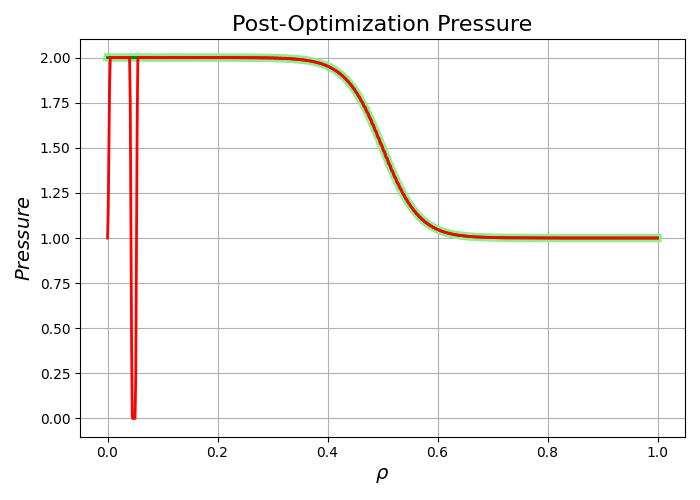
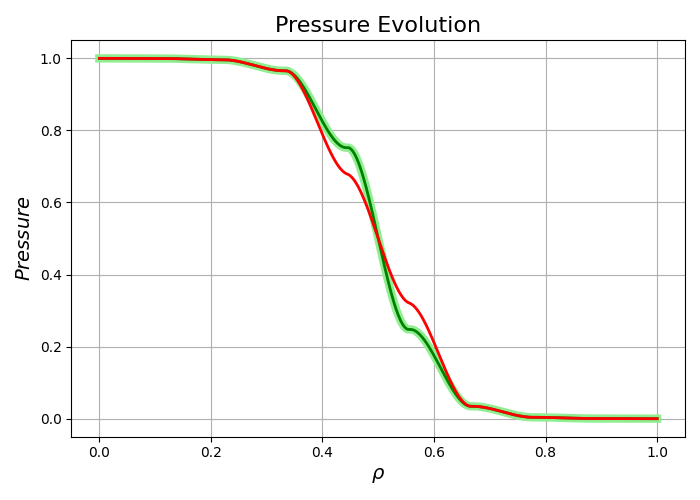
fixed spikes on hermite pressure

diff --git a/Scratch/Runs/hermite/opt.py b/Scratch/Runs/hermite/opt.py
@@ -48,25 +48,25 @@ pressure_axis_normalized = LinearObjectiveFromUser(
     fun=pressure_axis, 
     thing=eq_init,
     target=1.0, # pressure = 1 on axis
-    weight=1.0,
+    weight=1.0e1,
 )
 pressure_edge_zero = LinearObjectiveFromUser(
     fun=pressure_edge,
     thing=eq_init,
     target=0.0, # pressure = 0 on edge
-    weight=1.0,
+    weight=1.0e1,
 )
 grad_pressure_axis_zero = LinearObjectiveFromUser(
     fun=grad_pressure_axis, # Grad(P) = 0 on axis
     thing=eq_init,
     target=0.0,
-    weight=1.0,
+    weight=1.0e1,
 )
 grad_pressure_edge_zero = LinearObjectiveFromUser(
     fun=grad_pressure_edge, # Grad(P) = 0 on edge
     thing=eq_init,
     target=0.0,
-    weight=1.0,
+    weight=1.0e1,
 )
 
 
@@ -88,24 +88,24 @@ constraints = (
 #Custom objective wrapper for monotonicity func:
 monotonic_pressure = ObjectiveFromUser(
     fun=hermite_monotonicity_pressure,
-    grid=LinearGrid(rho=200,M=0,N=0), # optional, defaults to Quadrature
+    grid=LinearGrid(rho=100,M=0,N=0), # optional, defaults to Quadrature
     thing=eq_init,
     target=0.0,
     weight=1e4,
 )
 monotonic_slope = ObjectiveFromUser( 
     fun=hermite_monotonicity_slope,
-    grid=LinearGrid(rho=8,M=0,N=0), # optional, defaults to Quadrature
+    grid=LinearGrid(rho=100,M=0,N=0), # optional, defaults to Quadrature
     thing=eq_init,
     target=0.0,
-    weight=1e2, # weight > other objective weights
+    weight=1e4, # weight > other objective weights
 )
 
 
 
 # Creating objective:
 objective= ObjectiveFunction([
-    ForceBalance(eq=eq_init, target=0, weight=1e1), # J x B - Grad(P) = 0
+    ForceBalance(eq=eq_init, target=0, weight=1e-1), # J x B - Grad(P) = 0
     AspectRatio(eq=eq_init, target=6, weight=1e-1), # acceptable range: 
     QuasisymmetryBoozer(eq=eq_init, helicity=(2, eq_init.NFP), weight=1e-1), #TARGET??? acceptable range: 
     monotonic_pressure,
@@ -116,7 +116,7 @@ objective= ObjectiveFunction([
 
 
 #------------------ Optimizer of Choice -----------------------#
-optimizer = Optimizer("proximal-lsq-exact") #choice of optimizer
+optimizer = Optimizer("proximal-fmintr-bfgs") #choice of optimizer
 
 
 
@@ -126,7 +126,7 @@ eq_opt, result = eq_init.optimize(
     objective=objective,
     constraints=constraints,
     optimizer=optimizer,
-    ftol=5e-2,  # stopping tolerance on the function value
+    ftol=5e-4,  # stopping tolerance on the function value
     xtol=1e-6,  # stopping tolerance on the step size
     gtol=1e-6,  # stopping tolerance on the gradient
     maxiter=50,  # maximum number of iterations
@@ -164,13 +164,14 @@ plt.plot(rho, pressure_init, linewidth=2, color='g',
         pe.Stroke(linewidth=6, foreground='lightgreen'),
         pe.Normal()
     ],
-    label='init'
+    label='initial equilibrium'
 )
-plt.plot(rho, pressure_opt, linewidth=2, color='r', label='opt')
+plt.plot(rho, pressure_opt, linewidth=2, color='r', label='optimized')
 
 plt.xlabel(r"$\rho$", fontsize=14)
 plt.ylabel(r"$Pressure$", fontsize=14)
-plt.title("Post-Optimization Pressure", fontsize=16)
+plt.title("Pressure Evolution", fontsize=16)
 plt.grid(True)
+plt.legend
 plt.tight_layout()
 plt.savefig('/Users/macdaddi/DESC/scratch/runs/hermite/pressure.png')

diff --git a/Scratch/objectives/hermite_constraints.py b/Scratch/objectives/hermite_constraints.py
@@ -60,7 +60,7 @@ def hermite_monotonicity_pressure(grid, data):
     p = data['p'] # gradient of pressure at grid points
     rho = grid.nodes[:, 0] # rho gridpoints
     abs_dp = jnp.abs(p[1:] - p[0:-1]) # upper limit on change between two points
-    violation = jnp.maximum(2, abs_dp) # array where nonzero values = positive slope 
+    violation = jnp.maximum(0, abs_dp) # array where nonzero values = positive slope 
     return jnp.max(violation) # largest dp_dr chosen, penalized by optimizer
 
 
@@ -81,7 +81,7 @@ def hermite_monotonicity_slope(grid, data):
     """
     dp_dr = data['p_r'] # gradient of pressure at grid points
     rho = grid.nodes[:, 0] # rho gridpoints
-    violation = jnp.maximum(-0.1, dp_dr) # array where nonzero values = positive slope 
+    violation = jnp.maximum(0, dp_dr) # array where nonzero values = positive slope 
     return jnp.max(violation) # largest dp_dr chosen, penalized by optimizer
 
 

diff --git a/Scratch/Runs/hermite/eq.py b/Scratch/Runs/hermite/eq.py
@@ -40,8 +40,8 @@ surf= FourierRZToroidalSurface(
 
 
 # Initializing pressure:
-rho = np.linspace(0,1,200)
-p_0 = 2 - ( 1 / (1 + np.exp(-30 * (rho - 0.5)))) # logistic function to initialize with arbitrary k value
+rho = np.linspace(0,1,10)
+p_0 = 1 - ( 1 / (1 + np.exp(-20 * (rho - 0.5)))) # logistic function to initialize with arbitrary k value
 gradp_0 = p_0 * (1 - p_0) # exact derivative
 pressure_init = HermiteSplineProfile(
     p_0, 
